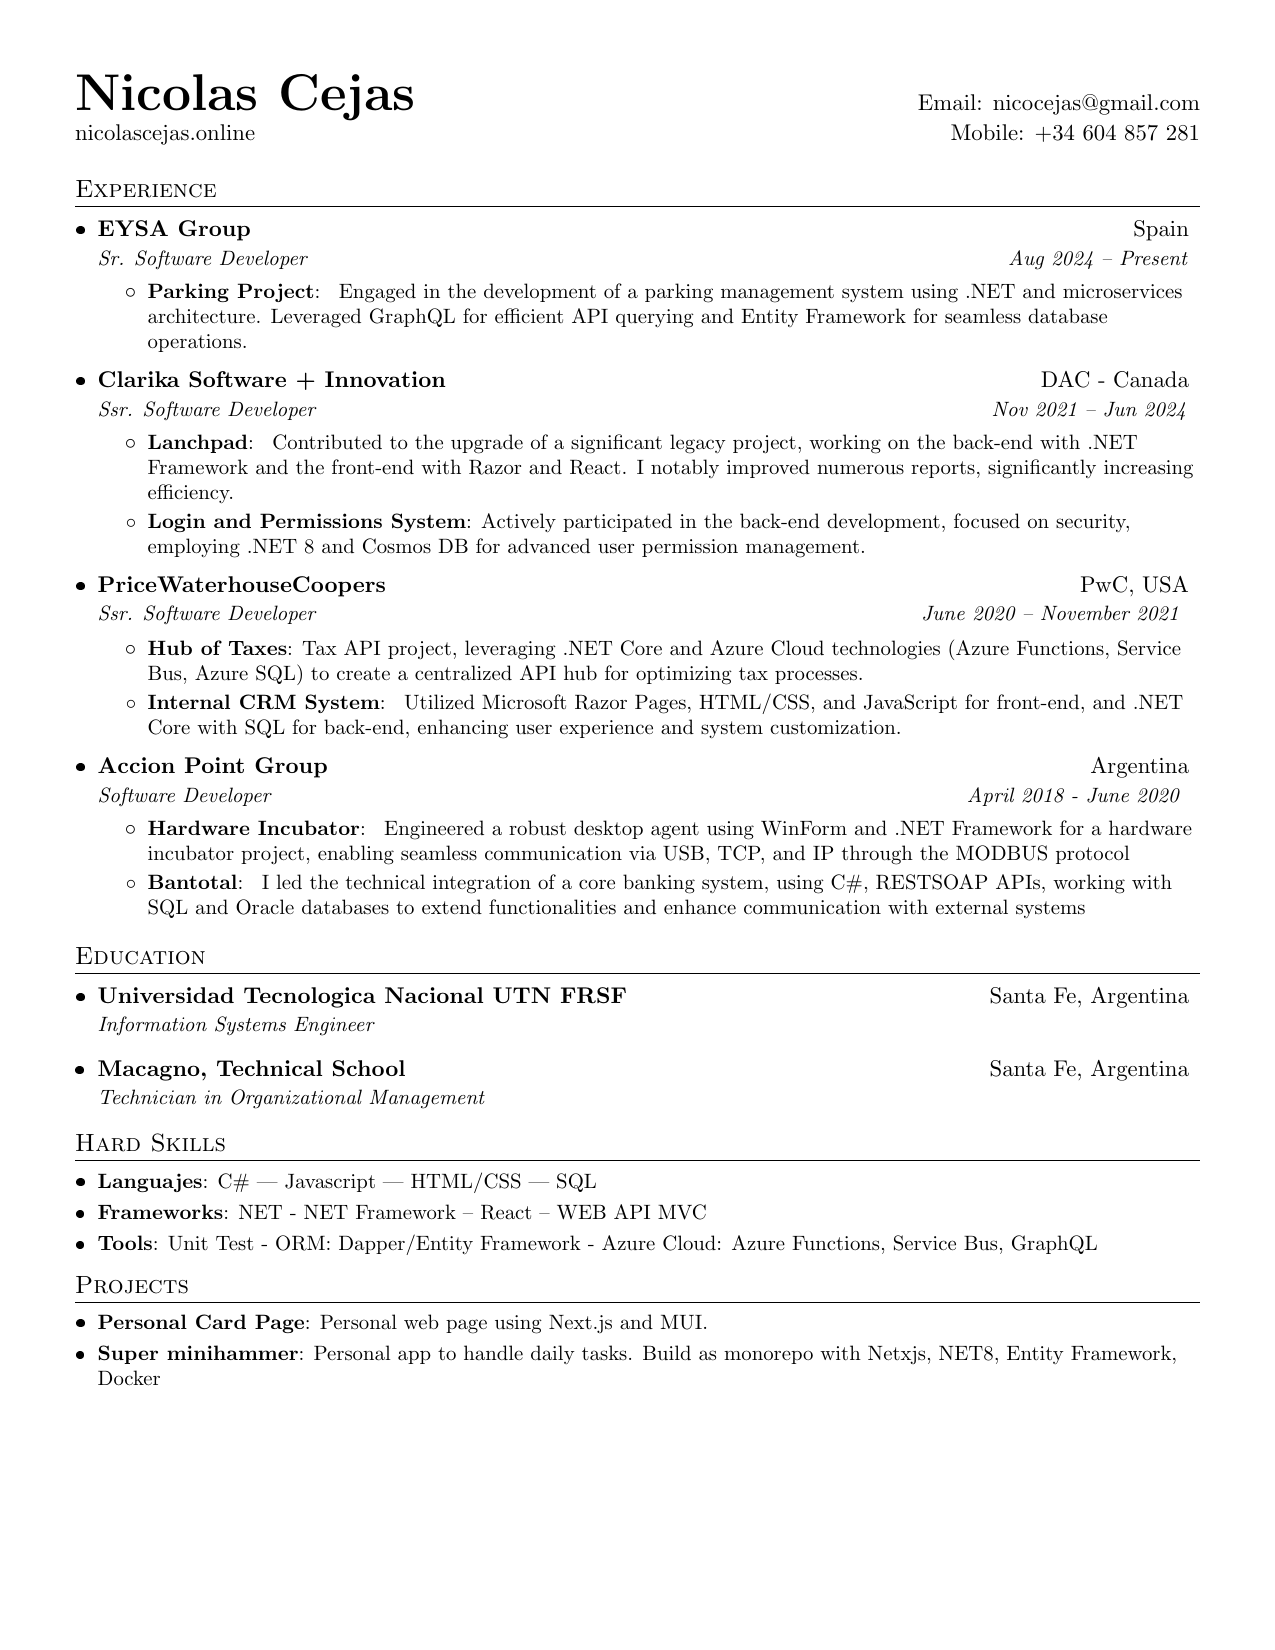
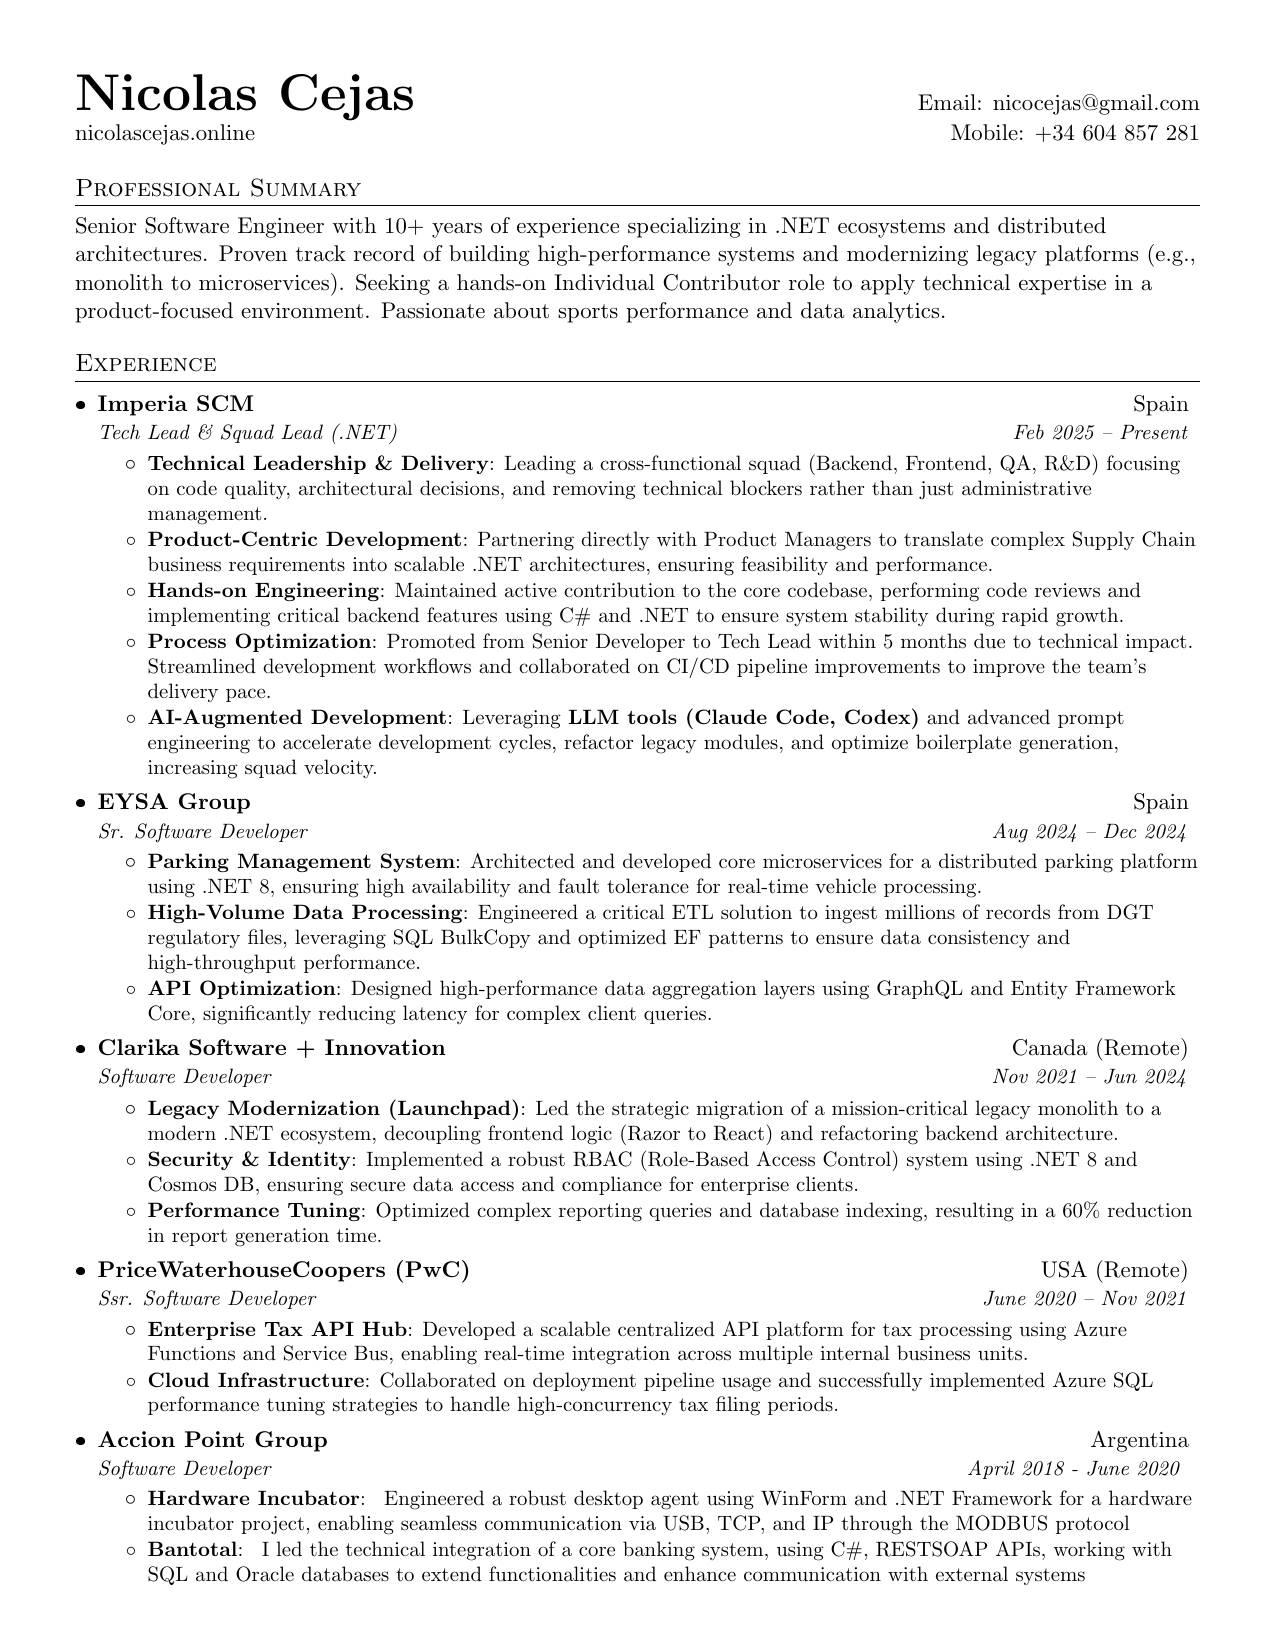
updateCv

Changed region(s): [[0.0612, 0.0927, 0.9482, 0.9582], [0.8871, 0.9273, 0.9176, 0.9582]]

diff --git a/nicolas_cejas_resume.tex b/nicolas_cejas_resume.tex
@@ -94,13 +94,14 @@
 %----------HEADING-----------------
 \begin{tabular*}{\textwidth}{l@{\extracolsep{\fill}}r}
   \textbf{\href{https://nicolascejas.online/}{\Huge Nicolas Cejas}} & Email: \href{mailto:nicocejas@gmail.com}{nicocejas@gmail.com}\\
-  \href{https://nicolascejas.online/}{nicolascejas.online} & Mobile: \href{tel:+34604857281}{+34 604 857 281} \\
+  Spain & Mobile: \href{tel:+34604857281}{+34 604 857 281} \\
+  \href{https://nicolascejas.online/}{nicolascejas.online} & GitHub: \href{https://github.com/chinocejas}{github.com/chinocejas} \\
 \end{tabular*}
 
 
 %-----------PROFESSIONAL SUMMARY-----------------
 \section{Professional Summary}
-Senior Software Engineer with 10+ years of experience specializing in .NET ecosystems and distributed architectures. Proven track record of building high-performance systems and modernizing legacy platforms (e.g., monolith to microservices). Seeking a hands-on Individual Contributor role to apply technical expertise in a product-focused environment. Passionate about sports performance and data analytics.
+Senior Software Engineer with 7+ years of experience specializing in .NET ecosystems and distributed architectures. Proven track record of building high-performance systems and modernizing legacy platforms (e.g., monolith to microservices). Passionate about sports performance and financial systems, seeking a hands-on Individual Contributor role to dive deep into complex technical challenges. A dedicated, high-performing engineer who thrives in product-focused environments and brings 100\% commitment to the team's goals.
 
 %-----------EXPERIENCE-----------------
 \section{Experience}
@@ -108,10 +109,12 @@ Senior Software Engineer with 10+ years of experience specializing in .NET ecosy
 
     \resumeSubheading
       {Imperia SCM}{Spain}
-      {Tech Lead \& Squad Lead (.NET)}{Feb 2025 -- Present}
+      {Tech Lead \& Squad Lead (.NET)}{Jul 2025 -- Present}
+    \resumeSubSubheading
+      {Senior Software Developer}{Feb 2025 -- Jul 2025}
       \resumeItemListStart
-        \resumeItem{Technical Leadership \& Delivery}
-          {Leading a cross-functional squad (Backend, Frontend, QA, R\&D) focusing on code quality, architectural decisions, and removing technical blockers rather than just administrative management.}
+        \resumeItem{Technical Leadership \& Mentoring}
+          {Leading a cross-functional squad (Backend, Frontend, QA, R\&D), mentoring mid-level engineers in Clean Architecture patterns, and enforcing rigorous async code reviews to elevate overall code quality.}
         \resumeItem{Product-Centric Development}
           {Partnering directly with Product Managers to translate complex Supply Chain business requirements into scalable .NET architectures, ensuring feasibility and performance.}
         \resumeItem{Hands-on Engineering}
@@ -149,7 +152,7 @@ Senior Software Engineer with 10+ years of experience specializing in .NET ecosy
 
     \resumeSubheading
       {PriceWaterhouseCoopers (PwC)}{ USA (Remote)}
-      {Ssr. Software Developer}{June 2020 -- Nov 2021}
+      {Ssr. Software Developer}{Jun 2020 -- Nov 2021}
       \resumeItemListStart
         \resumeItem{Enterprise Tax API Hub}
           {Developed a scalable centralized API platform for tax processing using Azure Functions and Service Bus, enabling real-time integration across multiple internal business units.}
@@ -159,15 +162,15 @@ Senior Software Engineer with 10+ years of experience specializing in .NET ecosy
 
     \resumeSubheading
       {Accion Point Group}{Argentina}
-      {Software Developer}{April 2018 - June 2020 }
+      {Software Developer}{Apr 2018 -- Jun 2020}
       \resumeItemListStart
         \resumeItem{Hardware Incubator}
-          { Engineered a robust desktop agent using WinForm and .NET Framework for a hardware incubator project, 
-          enabling seamless communication via USB, TCP, and IP through the MODBUS protocol}
+          {Engineered a robust desktop agent using WinForm and .NET Framework for a hardware incubator project, 
+          enabling seamless communication via USB, TCP, and IP through the MODBUS protocol.}
         \resumeItem{Bantotal}
-          { I led the technical integration of a core  banking system, using C\#, 
-          RESTSOAP APIs, working with SQL and Oracle databases to extend functionalities and enhance communication 
-          with external systems }
+          {Led the technical integration of a core banking system using C\# and REST/SOAP APIs, 
+          working with SQL and Oracle databases to extend functionalities and enhance communication 
+          with external systems.}
       \resumeItemListEnd
 
 
@@ -178,7 +181,7 @@ Senior Software Engineer with 10+ years of experience specializing in .NET ecosy
   \resumeSubHeadingListStart
    \resumeSubheading
       {Universidad Tecnologica Nacional UTN FRSF}{Santa Fe, Argentina}
-      {Information Systems Engineer}{}
+      {Coursework in Information Systems Engineering}{}
     \resumeSubheading
       {Macagno, Technical School}{Santa Fe, Argentina}
       {Technician in Organizational Management} {}
@@ -192,13 +195,13 @@ Senior Software Engineer with 10+ years of experience specializing in .NET ecosy
 \section{Technical Skills}
  \resumeSubHeadingListStart
    \resumeSubItem{Languages}
-     {C\#, SQL, JavaScript, HTML/CSS}
+     {C\#, SQL, JavaScript/TypeScript, HTML/CSS}
    \resumeSubItem{Core Frameworks}
      {.NET 8, .NET Core, ASP.NET WebAPI, Entity Framework Core, Dapper, React}
    \resumeSubItem{Architecture \& Patterns}
      {Microservices, Clean Architecture, DDD, CQRS, SOLID, Event-Driven Architecture, REST, GraphQL}
    \resumeSubItem{Cloud \& DevOps}
-     {Azure (Functions, Service Bus, SQL), Docker (Basic Usage), CI/CD (Azure DevOps/Github Actions Usage)}
+     {Azure (Functions, Service Bus, SQL), Docker, CI/CD (Azure DevOps, GitHub Actions)}
  \resumeSubHeadingListEnd
 
 
@@ -208,6 +211,8 @@ Senior Software Engineer with 10+ years of experience specializing in .NET ecosy
 %-----------PROJECTS-----------------
 \section{Notable Projects}
   \resumeSubHeadingListStart
+    \resumeSubItem{Viajecito (Travel Management Web App)}
+      {Architected and developed a full-stack Next.js application for seamless travel itinerary planning. Integrated AI capabilities using LLMs (Antigravity framework) and advanced prompt engineering to automate and enhance user travel planning experiences.}
     \resumeSubItem{Distributed Task Manager (Personal PoC)}
       {Full-stack productivity suite built as a Monorepo. Features a .NET 8 Microservices backend (EF Core, Docker containers) and a Next.js frontend, demonstrating end-to-end architectural patterns.}
   \resumeSubHeadingListEnd

diff --git a/README.md b/README.md
@@ -7,15 +7,15 @@ and
  [jakegut/resume](https://github.com/jakegut/resume.git).
 
 ### Build using Docker
-using windows cmd
-```sh
-#Build image
+
+**1. Build the image:**
+```bash
 docker build -t mi-latex-image .
-set currentDir=%cd%
+```
 
-
-#Compile tex and convert to PDF and PNG
-docker run --rm -v %currentDir%:/data -w /data mi-latex-image sh -c "pdflatex nicolas_cejas_resume.tex && pdftoppm -png nicolas_cejas_resume.pdf nicolas_cejas_resume"
+**2. Compile PDF & Generate Preview PNG:**
+```bash
+docker run --rm -v "$(pwd)":/data -w /data mi-latex-image sh -c "pdflatex nicolas_cejas_resume.tex && pdftoppm -png -f 1 -l 1 -singlefile nicolas_cejas_resume.pdf nicolas_cejas_resume"
 ```
 
 ### Preview
